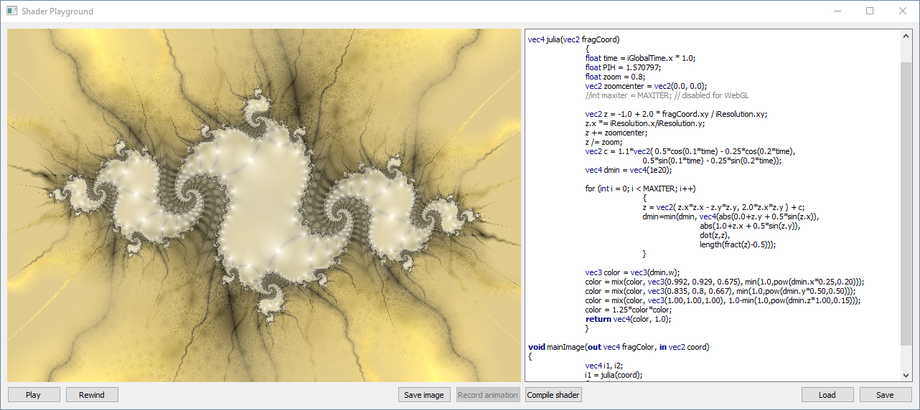
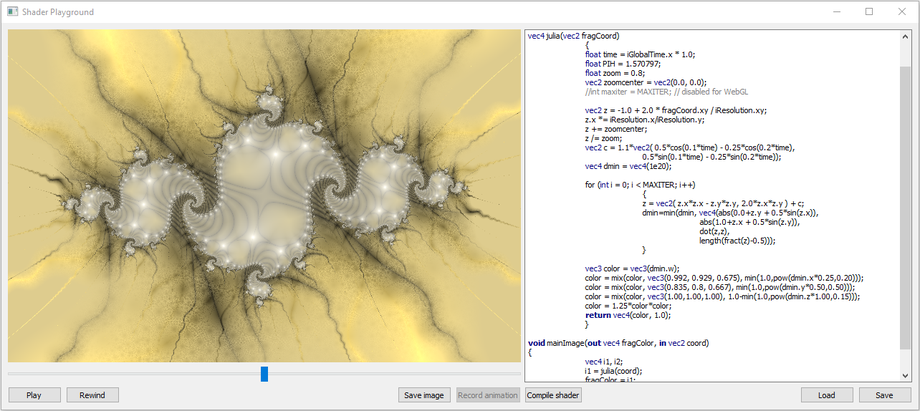
Spring slider for moving the animation back/forth with different speeds.

Changed region(s): [[0.0, 0.0, 1.0, 1.0], [0.6087, 0.6439, 0.9435, 0.7902], [0.4565, 0.1756, 0.487, 0.2049]]

diff --git a/PyShaderPlayground/main_window.py b/PyShaderPlayground/main_window.py
@@ -1,5 +1,5 @@
-from PySide2.QtCore import QCoreApplication, Qt, Slot, QUrl, QFile, QIODevice, QFileInfo
-from PySide2.QtWidgets import QApplication, QFileDialog, QMainWindow, QSizePolicy, QDialog
+from PySide2.QtCore import QCoreApplication, Qt, Slot, Signal, QUrl, QFile, QIODevice, QFileInfo
+from PySide2.QtWidgets import QApplication, QFileDialog, QMainWindow, QSizePolicy, QDialog, QSlider
 from PySide2.QtUiTools import QUiLoader
 from PyShaderPlayground.opengl_widget import ShaderWidget
 from PyShaderPlayground.text_tools import GLSLSyntaxHighlighter
@@ -21,6 +21,7 @@ class ShaderPlayground(QMainWindow):
         self.centralWidget().btnRewind.clicked.connect(self.rewind_animation)
         self.centralWidget().btnSaveImage.clicked.connect(self.save_image)
         self.centralWidget().btnRecordAnimation.setEnabled(False)
+        self.centralWidget().AnimationSlider.valueUpdated.connect(self.change_animation)
 
         self.current_filename = ""
         self.resize(1280, 540)
@@ -85,6 +86,14 @@ class ShaderPlayground(QMainWindow):
     def rewind_animation(self):
         """ Rewind an animation. Doesn't change the playing state. """
         self.opengl.animation_rewind()
+
+    @Slot()
+    def change_animation(self, value):
+        """ User rubs the animation slider back or forth. """
+        modifier = 1.0
+        if value != 0:
+            modifier = float(value) / 10.0
+        self.opengl.set_animation_speed_modifier(modifier)
     
     @Slot()
     def save_image(self):
@@ -104,9 +113,9 @@ class ShaderPlayground(QMainWindow):
             resolution_dialog.Form.layout().setContentsMargins(8, 8, 8, 8)
             resolution_dialog.Form.edWidth.setValue(self.last_render_size[0])
             resolution_dialog.Form.edHeight.setValue(self.last_render_size[1])
-            resolution_dialog.Form.edWidth.valueChanged.connect(lambda val: self.resolution_dlg_width_changed(resolution_dialog, True, False, False))
-            resolution_dialog.Form.edHeight.valueChanged.connect(lambda val: self.resolution_dlg_width_changed(resolution_dialog, False, True, False))
-            resolution_dialog.Form.cbxKeepAspectRatio.stateChanged.connect(lambda val: self.resolution_dlg_width_changed(resolution_dialog, False, False, True))
+            resolution_dialog.Form.edWidth.valueChanged.connect(lambda val: self.resolution_dlg_value_changed(resolution_dialog, True, False, False))
+            resolution_dialog.Form.edHeight.valueChanged.connect(lambda val: self.resolution_dlg_value_changed(resolution_dialog, False, True, False))
+            resolution_dialog.Form.cbxKeepAspectRatio.stateChanged.connect(lambda val: self.resolution_dlg_value_changed(resolution_dialog, False, False, True))
             
             if QDialog.Accepted == resolution_dialog.exec():
                 width = resolution_dialog.Form.edWidth.value()
@@ -115,7 +124,7 @@ class ShaderPlayground(QMainWindow):
                 self.opengl.render_image(filename[0], width, height)
 
     @Slot()
-    def resolution_dlg_width_changed(self, dlg, is_width_changed: bool, is_height_changed: bool, is_aspect_checked: bool):
+    def resolution_dlg_value_changed(self, dlg, is_width_changed: bool, is_height_changed: bool, is_aspect_checked: bool):
         """ Maintaining aspect ratio for resolution dialog. """
         is_aspect = dlg.Form.cbxKeepAspectRatio.isChecked()
         width = dlg.Form.edWidth.value()
@@ -140,6 +149,31 @@ class U3UiLoader(QUiLoader):
     def createWidget(self, className, parent=None, name=""):
         if className == "ShaderWidget":
             widget = ShaderWidget(parent)
+        elif className == "SpringSlider":
+            widget = SpringSlider(parent)
         else:
             widget = super().createWidget(className, parent, name)
         return widget
+
+class SpringSlider(QSlider):
+    """ Spring recoil slider. """
+
+    valueUpdated = Signal(int)
+
+    def __init__(self, parent=None):
+        super().__init__(parent)
+        self.setRange(-100, 100)
+        self.setSliderPosition(0)
+        self.setTracking(True)
+        self.sliderReleased.connect(self.sliderRelease)
+        self.valueChanged.connect(self.valueUpdate)
+
+    def sliderRelease(self):
+        """ If user released the slider, bring it back to 0. """
+        self.setValue(0)
+
+    def valueUpdate(self, value):
+        """ If slider is grabbed, just pass the value. If not (it was clicked), set to 0. """
+        if not self.isSliderDown():
+            self.setValue(0)
+        self.valueUpdated.emit(value)

diff --git a/PyShaderPlayground/opengl_widget.py b/PyShaderPlayground/opengl_widget.py
@@ -26,6 +26,9 @@ class ShaderWidget(QOpenGLWidget):
         self.uniform_iResolution = None
         self.uniform_iGlobalTime = None
         self.global_time: float = 0.0
+        self.framerate_ = 50
+        self.anim_speed_ = 2.0
+        self.anim_speed_modifier_ = 1.0
         self.shader_template_pre_ = ""
         self.shader_template_post_ = ""
         self.shader_user_ = \
@@ -41,12 +44,18 @@ class ShaderWidget(QOpenGLWidget):
 
         self.timer_ = QTimer(self)
         self.timer_.timeout.connect(self.timer_tick)
-        self.timer_.setInterval(1000 / 50)
+        self.set_animation_speed(2.0, 50)
         self.timer_.start()
+
+    def set_animation_speed(self, speed: float=1.0, framerate: float=50):
+        """ How many "ones" per second? And what's a desired framerate? """
+        self.framerate_ = framerate
+        self.anim_speed_ = speed
+        self.timer_.setInterval(1000 / self.framerate_)
 
     def timer_tick(self):
         """ Increment self.global_time variable for animating. """
-        self.global_time = self.global_time + 0.1
+        self.global_time = self.global_time + (self.anim_speed_modifier_ * self.anim_speed_ * self.framerate_ / 1000.0)
 
     def is_playing(self):
         """ Returns True if animation is playing, False otherwise. """
@@ -62,6 +71,12 @@ class ShaderWidget(QOpenGLWidget):
     def animation_rewind(self):
         """ Rewinds the animation by resetting the global timer counter. """
         self.global_time = 0.0
+
+    def set_animation_speed_modifier(self, value):
+        """ Temporary animation speed changing. """
+        self.anim_speed_modifier_ = value
+        if value != 1.0 and not self.is_playing():
+            self.global_time = self.global_time + (self.anim_speed_modifier_ * self.anim_speed_ * self.framerate_ / 1000.0)
 
     def initializeGL(self):
         """ Initialize OpenGL and related things. """
@@ -136,6 +151,7 @@ class ShaderWidget(QOpenGLWidget):
 
 
     def get_shader(self) -> str:
+        """ Returns user's part of a shader. """
         return self.shader_user_
 
 
